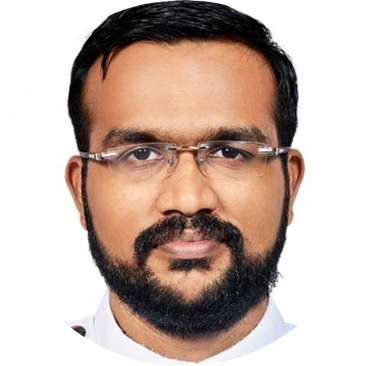
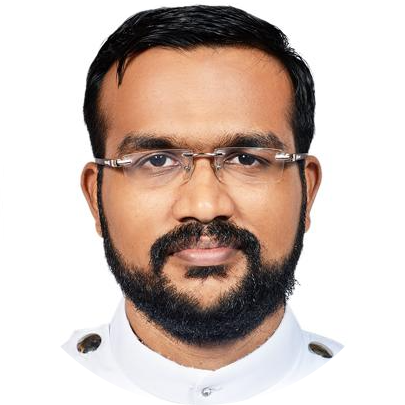
update rovin achen details

diff --git a/index.html b/index.html
@@ -339,7 +339,7 @@
     }
     .cg-eyebrow-line { width: 40px; height: 1px; background: rgba(201,146,42,0.35); }
     .cg-avatar {
-      width: 110px; height: 110px; border-radius: 50%;
+      width: 200px; height: 200px; border-radius: 50%;
       background: radial-gradient(circle at 35% 35%, var(--gold) 0%, var(--burgundy) 60%, #3a0a14 100%);
       border: 1px solid rgba(201,146,42,0.3);
       display: flex; align-items: center; justify-content: center;
@@ -554,7 +554,7 @@
     <p class="section-label">About the Festival</p>
     <h2 class="section-title">A Celebration of Worship Across the Body of Christ</h2>
     <p class="section-body">
-      Selah is a simple but powerful coming together of voices, taking a moment to pause, reflect, and pray for peace and justice in our world. Through heartfelt songs and shared worship, it’s not just about music—it’s about expressing what we carry in our hearts and being reminded that each of us can be a small part of bringing peace where it’s needed most.
+      Selah is a simple but powerful coming together of voices, taking a moment to pause, reflect, and pray for peace and justice in our world. Through heartfelt songs and shared worship, it's not just about music—it's about expressing what we carry in our hearts and being reminded that each of us can be a small part of bringing peace where it's needed most.
     </p>
     <div class="gold-divider">
       <div class="gd-line"></div>
@@ -583,9 +583,12 @@
       <h3 class="cg-name">Rev. Rovin Varughese John</h3>
       <p class="cg-designation">Vicar, Gulbarga Mar Thoma Congregation, Mar Thoma Church and Youth Center, Karnataka</p>
       <div class="cg-rule"></div>
-      <!-- <p class="cg-bio">
-        A shepherd of over three decades, Rev. Rovin Varughese John has dedicated his ministry to the unity of the Body of Christ across denominational lines. We are deeply honoured to welcome him to Selah 2026.
-      </p> -->
+      <p class="cg-bio">
+        Rev. Rovin Varughese John serves as Youth Chaplain at the Gulburga Mar Thoma Congregation, where he leads the youth centre and ministers to the student community.
+        Rooted in faith and music from childhood, he grew up singing in the Ebenezer Mar Thoma Church choir in Dombivili, Maharashtra — eventually leading it at a young age before departing for seminary. He credits the choir as the foundation of everything he knows and feels about music.
+        Achen has a deep love for Western Classical music — orchestras, symphonies, choral arrangements, and a cappella — alongside a great admiration for Indian ensembles like Kottayam Mixed Voices and the Shillong Chamber Choir. Heather Sorensen, Victor Johnson, and Pepper Chopin rank among his favourite composers. 
+        His dream? To one day be part of a Broadway-style musical.
+      </p> 
     </div>
   </section>
 
